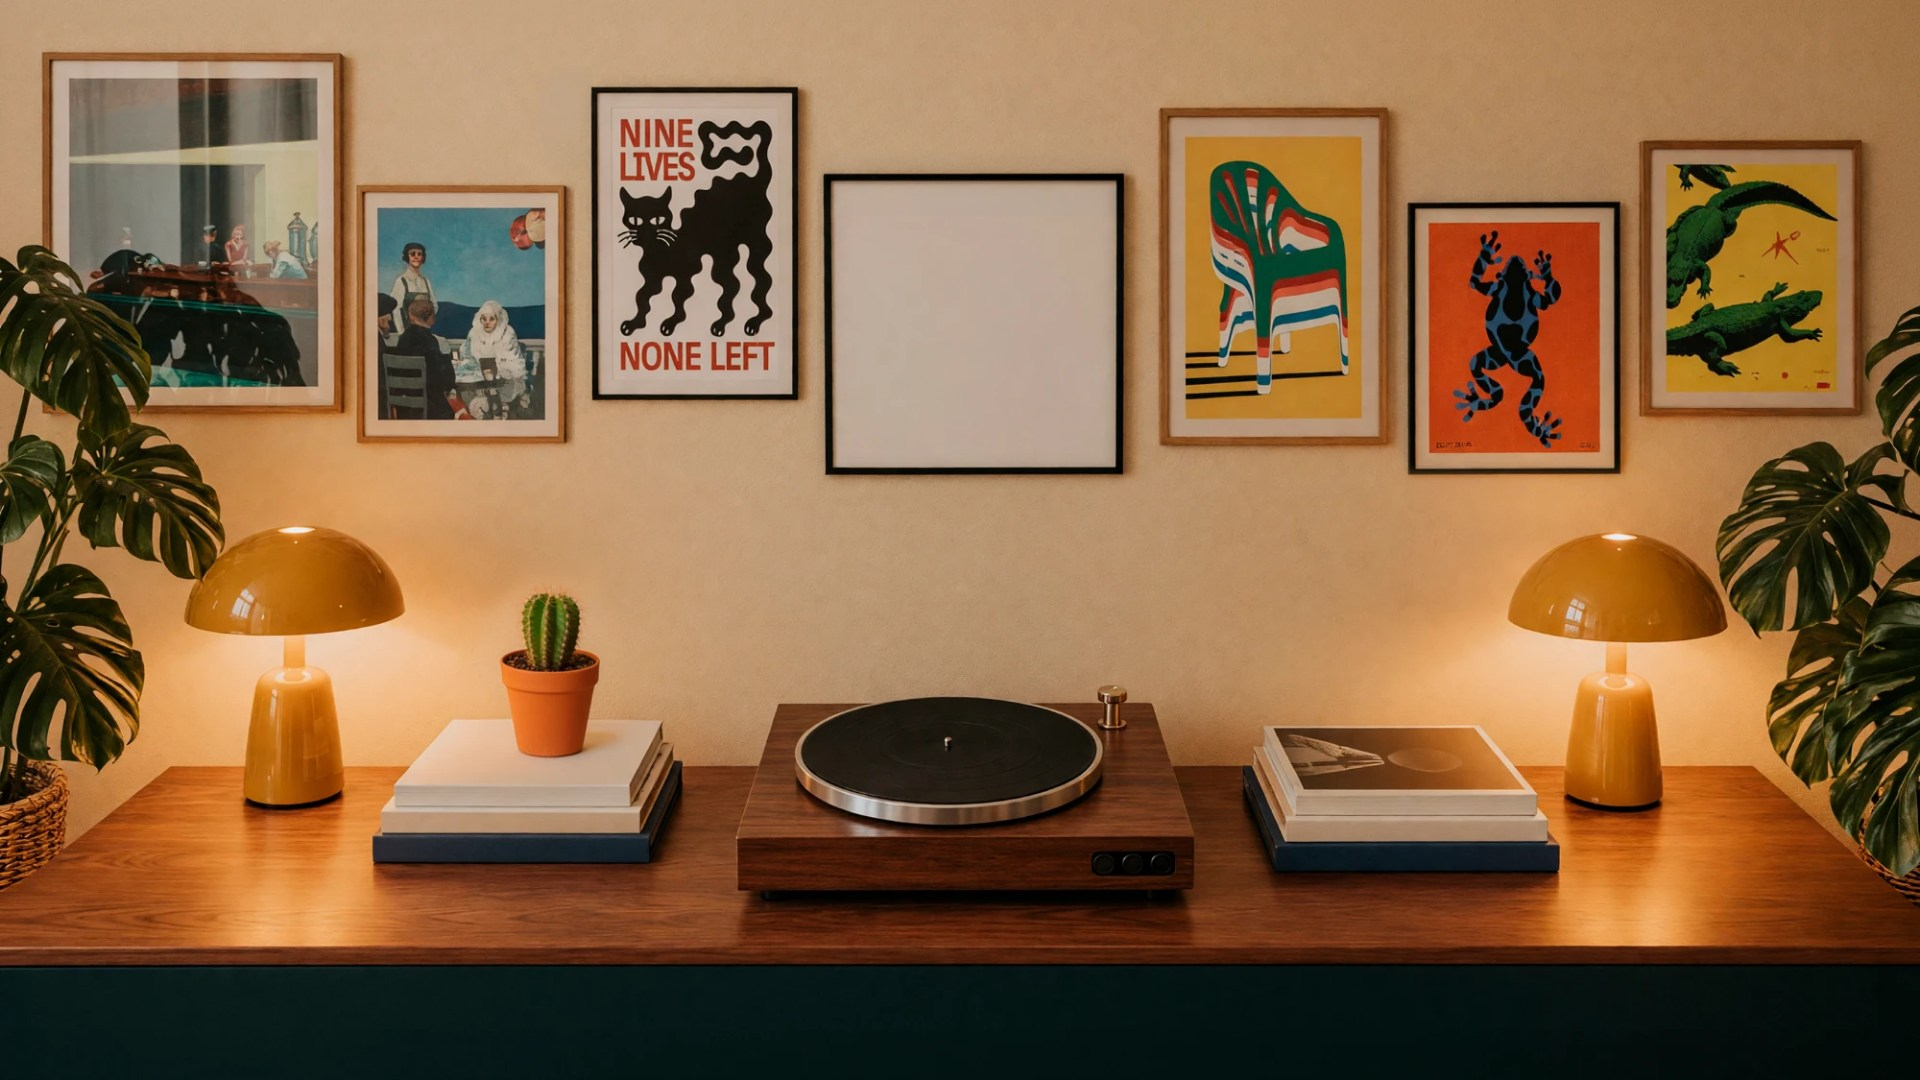
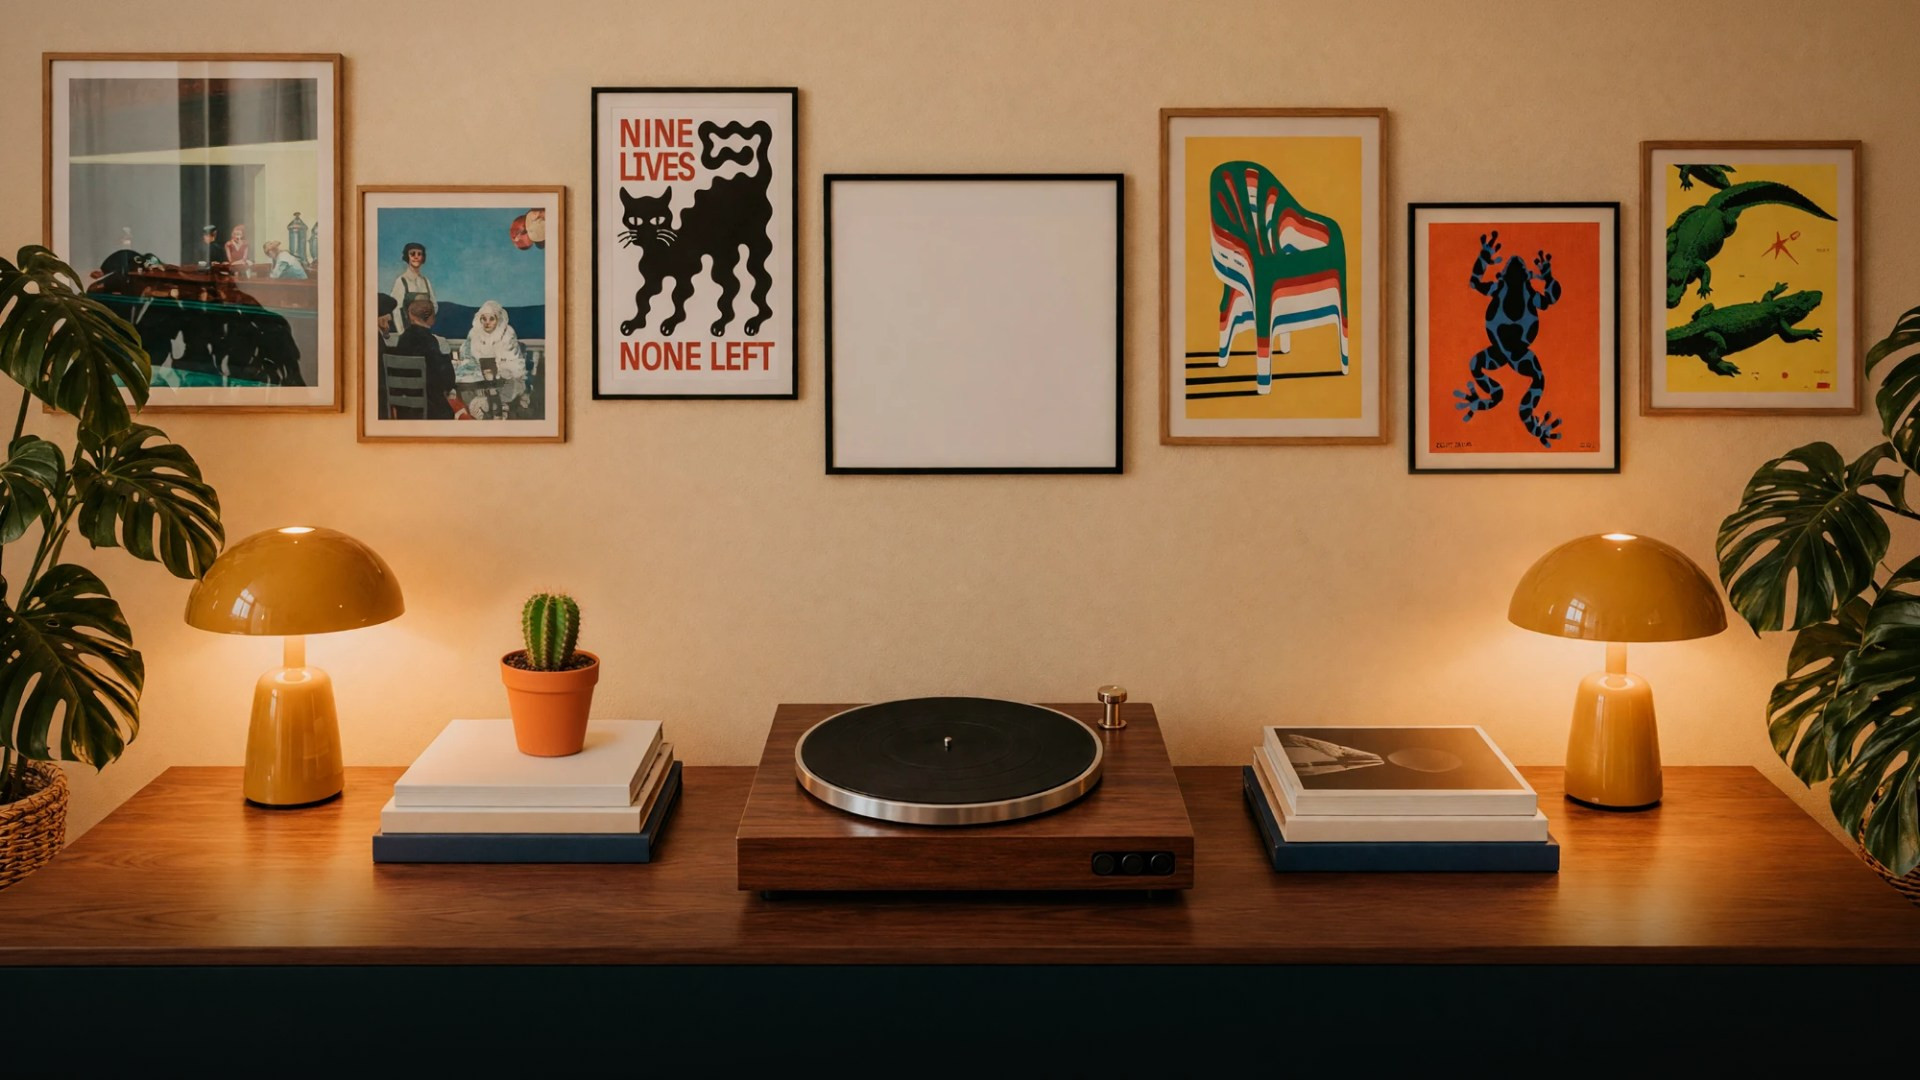
Add files via upload

Changed region(s): [[0.0, 0.7944, 1.0, 0.9167]]

diff --git a/index.html b/index.html
@@ -573,16 +573,14 @@ html{text-rendering:geometricPrecision;-webkit-font-smoothing:antialiased}
 #ttLabel,.ttRec img{position:absolute;left:50%;top:50%;width:187px;height:187px;margin:-93.500px 0 0 -93.500px;border-radius:50%;object-fit:cover;filter:saturate(.85) brightness(.9);box-shadow:0 0 0 2px rgba(0,0,0,.8)}
 #ttSheen{position:absolute;inset:0;border-radius:50%;background:radial-gradient(ellipse 34% 52% at 90% 50%,rgba(255,226,180,.2),rgba(255,226,180,0) 100%),radial-gradient(ellipse 34% 52% at 10% 50%,rgba(255,226,180,.2),rgba(255,226,180,0) 100%)}
 .ttA{position:absolute;left:0;top:0;overflow:visible;transform-origin:0 0;transition:transform 1s cubic-bezier(.3,.7,.3,1)}
-#ttShadow,#ttHeadSh{filter:blur(2.4px)}
-/* the same softness and warmth as the photo, so nothing reads as drawn on top */
-#ttArm,#ttHead,#ttHeadMid,#ttHeadBase,#ttNeedle,#ttJoint{filter:blur(.35px) sepia(.2) contrast(.96)}
-#ttJoint{position:absolute;left:1112px;top:693px;overflow:visible}
+#ttShadow{opacity:.62}
+#ttHeadSh{opacity:.6}
+#ttJoint{position:absolute;left:1112px;top:691px;overflow:visible}
 /* The cover is a print in the painted frame: mat around it, the room's warm light on it, glass in front. */
 #ttSleeve{position:absolute;left:832px;top:181px;width:284px;height:286px;overflow:hidden}
 #ttCover{position:absolute;left:30px;top:30px;width:224px;height:226px;object-fit:cover;display:block;filter:saturate(.86) contrast(.94) brightness(.9);box-shadow:0 0 0 1px rgba(70,44,20,.6),0 1px 7px 1px rgba(58,34,14,.42);transition:opacity .4s ease}
 #ttSleeve::before{content:"";position:absolute;left:30px;top:30px;width:224px;height:226px;z-index:1;mix-blend-mode:multiply;background:linear-gradient(180deg,#e7c79c,#f7dcb4 70%,#ffe6bf)}
 #ttSleeve::after{content:"";position:absolute;inset:0;z-index:2;box-shadow:inset 0 10px 13px -4px rgba(40,22,8,.56),inset 6px 0 9px -4px rgba(40,22,8,.32),inset -6px 0 9px -4px rgba(40,22,8,.22),inset 0 -5px 8px -4px rgba(40,22,8,.2);background:linear-gradient(118deg,rgba(255,244,224,.14) 0,rgba(255,244,224,.05) 20%,transparent 21%,transparent 56%,rgba(255,244,224,.07) 57%,rgba(255,244,224,.02) 72%,transparent 73%)}
-#sTT::after{content:"";position:absolute;left:0;right:0;bottom:0;height:230px;background:linear-gradient(0deg,rgba(6,8,8,.72) 0,rgba(6,8,8,.5) 42%,rgba(6,8,8,0) 100%)}
 /* The song on the wall: warm ink between the frame and the turntable, the next line fainter below it. */
 #ttLyr{position:absolute;left:460px;width:1000px;top:476px;height:196px;display:flex;flex-direction:column;align-items:center;justify-content:center;text-align:center;color:#2f2e2c;transition:opacity .26s ease,transform .26s ease}
 #ttLyr.off{opacity:0;transform:translate3d(0,5px,0)}
@@ -590,7 +588,6 @@ html{text-rendering:geometricPrecision;-webkit-font-smoothing:antialiased}
 #ttLine{font:italic 400 42px/1.2 Georgia,"Times New Roman",serif;opacity:.86}
 #ttNext{font:italic 400 25px/1.25 Georgia,"Times New Roman",serif;opacity:.5;margin-top:12px}
 /* Ambient occlusion: soft contact shadows where things touch, painted once and never moving. */
-#sTT::before{content:"";position:absolute;inset:0;z-index:1;pointer-events:none;background:radial-gradient(ellipse 72% 78% at 50% 44%,rgba(30,14,4,0) 58%,rgba(30,14,4,.2) 100%)}
 /* Film grain: one painted noise layer jumping to a new spot about 12 times a second, like frames of a print. */
 /* The record takes the exact outline of the platter, traced from the photo's pixels. */
 #ttDisc{position:absolute;left:800.2px;top:696.3px;width:296.4px;height:108.3px;visibility:hidden;transition:opacity .3s linear,transform .5s ease}
@@ -598,13 +595,14 @@ html{text-rendering:geometricPrecision;-webkit-font-smoothing:antialiased}
 #saver.ttChange #ttDisc{opacity:0;transform:translate3d(0,-26px,0)}
 .ttShape{position:absolute;inset:0;clip-path:polygon(100.40% 49.58%,98.77% 61.22%,95.47% 71.46%,90.60% 79.28%,85.74% 85.14%,81.22% 89.33%,76.93% 91.93%,73.57% 94.54%,70.17% 95.66%,67.41% 96.96%,64.83% 97.61%,62.65% 98.63%,60.64% 99.47%,58.60% 99.47%,56.73% 99.47%,55.00% 99.47%,53.37% 100.40%,51.73% 100.31%,50.10% 100.31%,48.47% 100.31%,46.84% 100.40%,45.14% 100.31%,43.47% 99.47%,41.60% 99.47%,39.56% 99.47%,37.55% 98.63%,35.38% 97.61%,32.59% 97.52%,29.63% 96.59%,26.53% 94.73%,22.72% 92.86%,18.98% 89.33%,14.02% 85.51%,8.78% 79.93%,4.02% 71.83%,0.62% 61.40%,-0.40% 49.58%,1.23% 37.86%,5.11% 27.90%,10.07% 20.27%,15.00% 14.68%,19.73% 10.87%,23.81% 8.07%,27.18% 5.65%,30.44% 4.44%,33.20% 3.33%,35.68% 2.49%,37.79% 1.56%,39.80% 0.63%,41.77% 0.72%,43.47% -0.30%,45.20% -0.30%,46.90% -0.30%,48.50% -0.30%,50.10% -0.40%,51.70% -0.30%,53.30% -0.30%,55.00% -0.30%,56.73% -0.30%,58.43% 0.72%,60.41% 0.63%,62.41% 1.56%,64.83% 1.56%,67.28% 2.58%,70.17% 3.51%,73.19% 5.37%,76.93% 7.24%,81.22% 9.84%,86.18% 13.66%,91.29% 19.43%,95.64% 27.62%,99.17% 37.86%)}
 #ttBody{background:#0d0d0f}
-#ttTop{transform:translate3d(0,-1.5px,0)}
+#ttTop{top:-1.5px;bottom:1.5px}
 #ttAO{position:absolute;inset:0;border-radius:50%;box-shadow:0 0 9px 3px rgba(0,0,0,.6),0 3px 12px 5px rgba(0,0,0,.28)}
 #ttSheen{-webkit-mask:none;mask:none}
 #ttLab{position:absolute;left:97.5px;top:0.7px;width:100px;height:100px;transform:scaleY(.365)}
 #ttLabel{left:0;top:0;width:100%;height:100%;margin:0}
-#ttPin{position:absolute;left:144.5px;top:48.7px;width:6px;height:4px;border-radius:50%;background:#d8d3c8;box-shadow:0 0 0 1px rgba(0,0,0,.7)}
-#ttGrain{position:absolute;left:-180px;top:-180px;right:-180px;bottom:-180px;background-image:var(--grainRoom);background-size:176px 176px;will-change:transform,opacity;animation:filmGrain .66s steps(1) infinite,grainIn 2.8s ease-in}
+#ttPin{position:absolute;left:147.5px;top:50.7px;overflow:visible}
+#saver.tt>.grain{display:none}
+#ttGrain{position:absolute;left:-120px;top:-120px;right:-120px;bottom:-120px;background-image:var(--grainRoom);background-size:176px 176px;will-change:transform,opacity;animation:filmGrain .8s steps(1) infinite,grainIn 2.8s ease-in}
 @keyframes grainIn{from{opacity:0}to{opacity:1}}
 @keyframes filmGrain{0%{transform:translate3d(0,0,0)}12.5%{transform:translate3d(-61px,37px,0)}25%{transform:translate3d(43px,-83px,0)}37.5%{transform:translate3d(-97px,-29px,0)}50%{transform:translate3d(71px,59px,0)}62.5%{transform:translate3d(-23px,101px,0)}75%{transform:translate3d(113px,-47px,0)}87.5%{transform:translate3d(-79px,-109px,0)}}
 #ttFly{position:absolute;left:0;top:0}
@@ -746,13 +744,15 @@ html:not(.nothing).lite #weather,html:not(.nothing).lite #mid #nMusic:not(.empty
     <div id="sTT">
       <img id="ttRoom" alt="">
       <div id="ttDisc"><i id="ttAO"></i><div id="ttBody" class="ttShape"></div>
-        <div id="ttTop" class="ttShape"><div id="ttSpin" class="ttRec"></div><i id="ttSheen"></i>
-          <div id="ttLab"><canvas id="ttLabel" width="110" height="110"></canvas></div><i id="ttPin"></i></div>
+        <div id="ttTop" class="ttShape"><div id="ttSpin" class="ttRec"></div><i id="ttSheen"></i></div>
+        <div id="ttLab"><canvas id="ttLabel" width="110" height="110"></canvas></div><svg id="ttPin" width="1" height="1" aria-hidden="true"><defs><linearGradient id="tPin"><stop offset="0" stop-color="#3f3b34"/><stop offset=".28" stop-color="#cfc8b9"/><stop offset=".42" stop-color="#fffaf0"/><stop offset=".62" stop-color="#8d877b"/><stop offset="1" stop-color="#2b2823"/></linearGradient><radialGradient id="tPinTop" cx=".38" cy=".35" r=".8"><stop offset="0" stop-color="#fffdf6"/><stop offset=".6" stop-color="#b9b2a4"/><stop offset="1" stop-color="#5e594f"/></radialGradient></defs>
+<ellipse cx="1" cy=".6" rx="6.200" ry="2.400" fill="#000" opacity=".42"/><ellipse cx="0" cy="0" rx="4" ry="1.700" fill="#0a0908"/><ellipse cx="0" cy="-.2" rx="4" ry="1.700" fill="none" stroke="#6e6a62" stroke-opacity=".7" stroke-width=".5"/>
+<path d="M-2.300 -7.500V0A2.300 .9 0 0 0 2.300 0V-7.500Z" fill="url(#tPin)"/><ellipse cx="0" cy="-7.500" rx="2.300" ry="1.100" fill="url(#tPinTop)"/></svg>
       </div>
       <svg id="ttShadow" class="ttA" width="1" height="1" aria-hidden="true"><path d="M0 0C32 -3 62 5 94 2" stroke="#000" stroke-width="5" fill="none" stroke-linecap="round" opacity=".42"/></svg>
       <svg id="ttHeadSh" class="ttA" width="1" height="1" aria-hidden="true"><path d="M-3 -5.500L33 -7.500Q40 -7.500 40 -2.500V2.500Q40 7.500 33 7.500L-3 5.500Z" fill="#000" opacity=".75"/></svg>
       <svg id="ttArm" class="ttA" width="1" height="1" aria-hidden="true"><defs>
-<linearGradient id="tTube" gradientUnits="userSpaceOnUse" x1="0" y1="-2" x2="0" y2="3"><stop offset="0" stop-color="#0d0d0c"/><stop offset=".3" stop-color="#3d3a35"/><stop offset=".42" stop-color="#c4b9a4"/><stop offset=".55" stop-color="#2c2a27"/><stop offset="1" stop-color="#060605"/></linearGradient>
+<linearGradient id="tTube" gradientUnits="userSpaceOnUse" x1="0" y1="-2" x2="0" y2="3"><stop offset="0" stop-color="#060605"/><stop offset=".42" stop-color="#262421"/><stop offset=".6" stop-color="#6f675a"/><stop offset=".76" stop-color="#37342f"/><stop offset="1" stop-color="#0d0d0c"/></linearGradient>
 <linearGradient id="tWeight" x1="0" y1="0" x2="0" y2="1"><stop offset="0" stop-color="#0c0c0b"/><stop offset=".3" stop-color="#4a4640"/><stop offset=".45" stop-color="#26241f"/><stop offset="1" stop-color="#050505"/></linearGradient>
 <linearGradient id="tShell" gradientUnits="userSpaceOnUse" x1="0" y1="-3.500" x2="0" y2="3.500"><stop offset="0" stop-color="#101010"/><stop offset=".36" stop-color="#57534b"/><stop offset=".55" stop-color="#1f1e1b"/><stop offset="1" stop-color="#060605"/></linearGradient></defs>
 <path d="M0 0C30 -1 62 2 96 1" stroke="url(#tTube)" stroke-width="4" fill="none" stroke-linecap="round"/>
@@ -1761,19 +1761,22 @@ function ttFrame(u){
   setTimeout(()=>{c.onload=()=>{c.style.opacity=1};c.src=u},400);
 }
 /* Turntable. The record leaves the sleeve, rises and lands on the platter; the arm then follows the song across it. */
-let ttOn=false,ttBusy=false,ttWords=store.get('sala-tt-words')!==0;
+let ttKey='',ttOn=false,ttBusy=false,ttWords=true;
 function ttArm(){
   const sv=$('saver'),on=ttOn&&sv.classList.contains('ttSeat')&&!sv.classList.contains('ttChange');
-  const deg=(on?25+23*(mDur?Math.min(1,mPos/mDur):0):6)*Math.PI/180,lift=on&&mPlaying?0:4;
+  const step=Math.round((on?25+23*(mDur?Math.min(1,mPos/mDur):0):6)*2)/2,lift=on&&mPlaying?0:4,key=step+'/'+lift;
+  if(key===ttKey)return;
+  ttKey=key;
+  const deg=step*Math.PI/180;
   /* points of the record's plane, measured on the photo: the head lies on that plane, so it squashes with it */
   const at=L=>[948+(306-L*Math.sin(deg))*.536,747+(-120+L*Math.cos(deg))*.191],[hx,hy]=at(270);
   const put=(el,px,py,tx,ty)=>{el.style.transform='translate('+px+'px,'+py+'px) rotate('+Math.atan2(ty-py,tx-px)+'rad) scaleX('+Math.hypot(tx-px,ty-py)/96+')'};
   const lay=(el,dy)=>{el.style.transform='translate('+hx+'px,'+(hy+dy)+'px) scale(1,.56) rotate('+(Math.atan2(Math.cos(deg),-Math.sin(deg))-.19)+'rad)'};
-  put($('ttArm'),1112,689,hx,hy-lift-12);
+  put($('ttArm'),1112,687,hx,hy-lift-13);
   put($('ttShadow'),1110,724,hx-2,hy+4);
-  lay($('ttHeadSh'),5);lay($('ttHeadBase'),-lift-5);lay($('ttHeadMid'),-lift-8.5);lay($('ttHead'),-lift-12);
+  lay($('ttHeadSh'),5);lay($('ttHeadBase'),-lift-6);lay($('ttHeadMid'),-lift-9.5);lay($('ttHead'),-lift-13);
   const end=Math.atan2(Math.cos(deg),-Math.sin(deg))-.19,ex=hx+Math.cos(end)*30,ey=hy+Math.sin(end)*30*.56;
-  $('ttNeedle').style.transform='translate('+ex+'px,'+(ey-5.5-lift)+'px)';
+  $('ttNeedle').style.transform='translate('+ex+'px,'+(ey-6.5-lift)+'px)';
 }
 function ttChange(){
   const sv=$('saver');
@@ -1807,7 +1810,7 @@ function ttToggle(){
   if(ttBusy)return;
   if(ttOn){ttOn=false;sv.classList.remove('tt','ttSeat');ttArm();lyrApply();return}
   const r=$('sSlide').getBoundingClientRect(),b=sv.getBoundingClientRect(),k=$('stage').offsetWidth?b.width/1920:1;
-  ttBusy=true;ttOn=true;$('ttRoom').src='room.jpg?v=6';sv.classList.add('tt');lyrApply();
+  ttBusy=true;ttOn=true;ttWords=true;$('ttRoom').src='room.jpg?v=7';sv.classList.add('tt');lyrApply();
   const q=$('ttTop').getBoundingClientRect();
   const fly=document.createElement('div'),size=300;
   fly.id='ttFly';fly.className='ttRec';fly.style.width=fly.style.height=size+'px';
@@ -1893,7 +1896,7 @@ function lyrLoad(){
   if(!mTrack||lyrFor===key)return;
   lyrFor=key;lyrShow(['Buscando la letra…'],null,'msg now');
   const clean=mTrack.replace(/\s+-\s+.*$/,'').replace(/\s*\((feat|ft|with|con)\b.*?\)/i,'').trim();
-  fetch('https://lrclib.net/api/search?track_name='+encodeURIComponent(clean)+'&artist_name='+encodeURIComponent(mFirst)).then(r=>r.ok?r.json():null).then(list=>{
+  fetch('https://lrclib.net/api/search?track_name='+encodeURIComponent(clean)+'&artist_name='+encodeURIComponent(mFirst)).then(r=>{if(!r.ok)throw 0;return r.json()}).then(list=>{
     if(lyrFor!==key)return;
     const x=lyrPick(list,mDur);
     if(!x)return lyrShow(['Esta canción no tiene letra disponible'],null,'msg now');
@@ -1904,7 +1907,12 @@ function lyrLoad(){
       const rows=x.plainLyrics.split('\n').map(l=>l.trim()).filter(Boolean);
       lyrShow(rows,rows.map((q,i)=>i/rows.length*mDur));
     }
-  }).catch(()=>{if(lyrFor===key){lyrFor='';lyrShow(['No se pudo buscar la letra'],null,'msg now')}});
+  }).catch(()=>{
+    if(lyrFor!==key)return;
+    lyrFor='';lyrShow(['No se pudo buscar la letra'],null,'msg now');
+    /* a dropped request must not leave the song without words: try again while it plays */
+    setTimeout(()=>{if((lyrOn||ttOn)&&mTrack+'|'+mFirst===key)lyrLoad()},30000);
+  });
 }
 function ttSay(n,clear){
   const l=$('ttLyr'),a=clear?'':lyrLines[n]||(n>=0?'♪':''),b=clear?'':lyrLines[n+1]||'';
@@ -1931,7 +1939,7 @@ setInterval(()=>{
   box.style.transform='translate3d(0,'+-(r.offsetTop+r.offsetHeight/2)+'px,0)';
 },250);
 $('sLyrBtn').onclick=()=>{
-  if(ttOn){ttWords=!ttWords;store.set('sala-tt-words',ttWords?1:0)}
+  if(ttOn)ttWords=!ttWords;
   else{lyrOn=!lyrOn;store.set('sala-lyrics',lyrOn?1:0)}
   lyrApply();
 };
